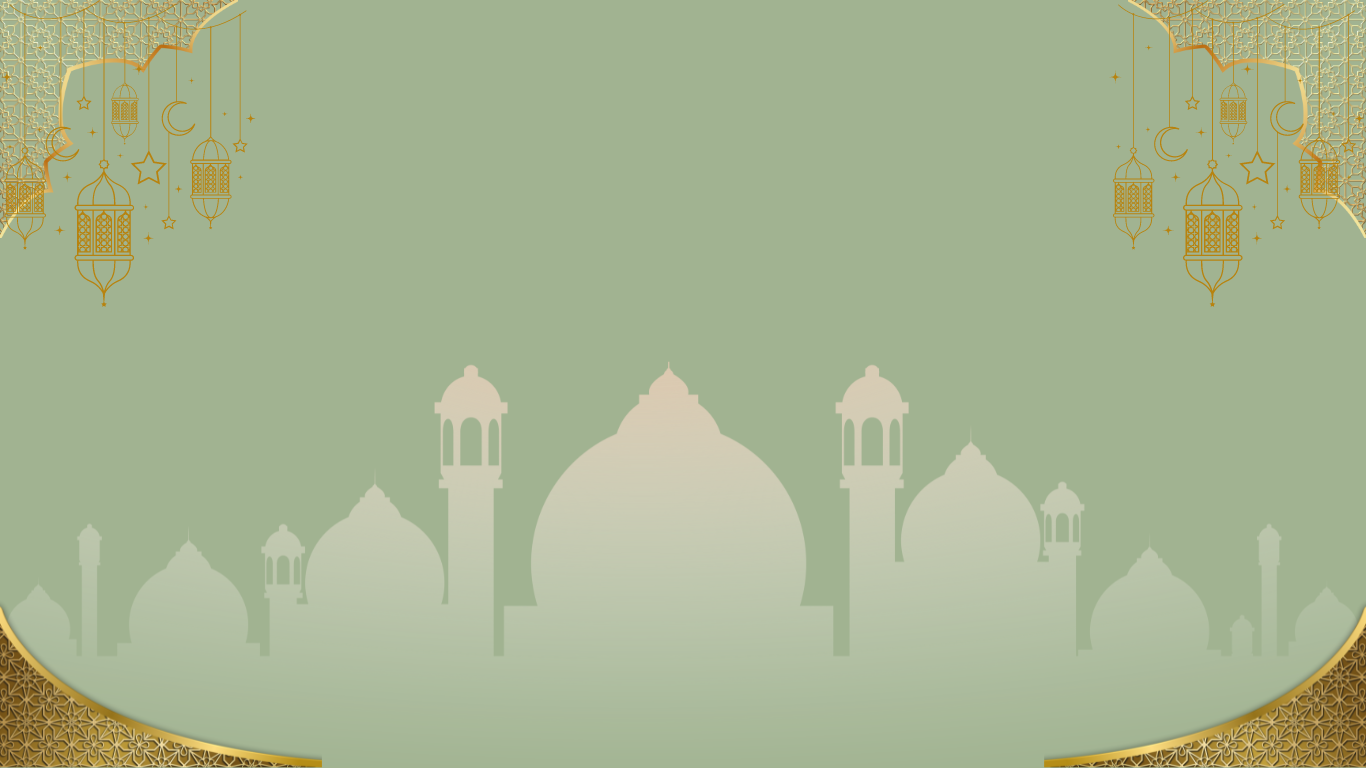
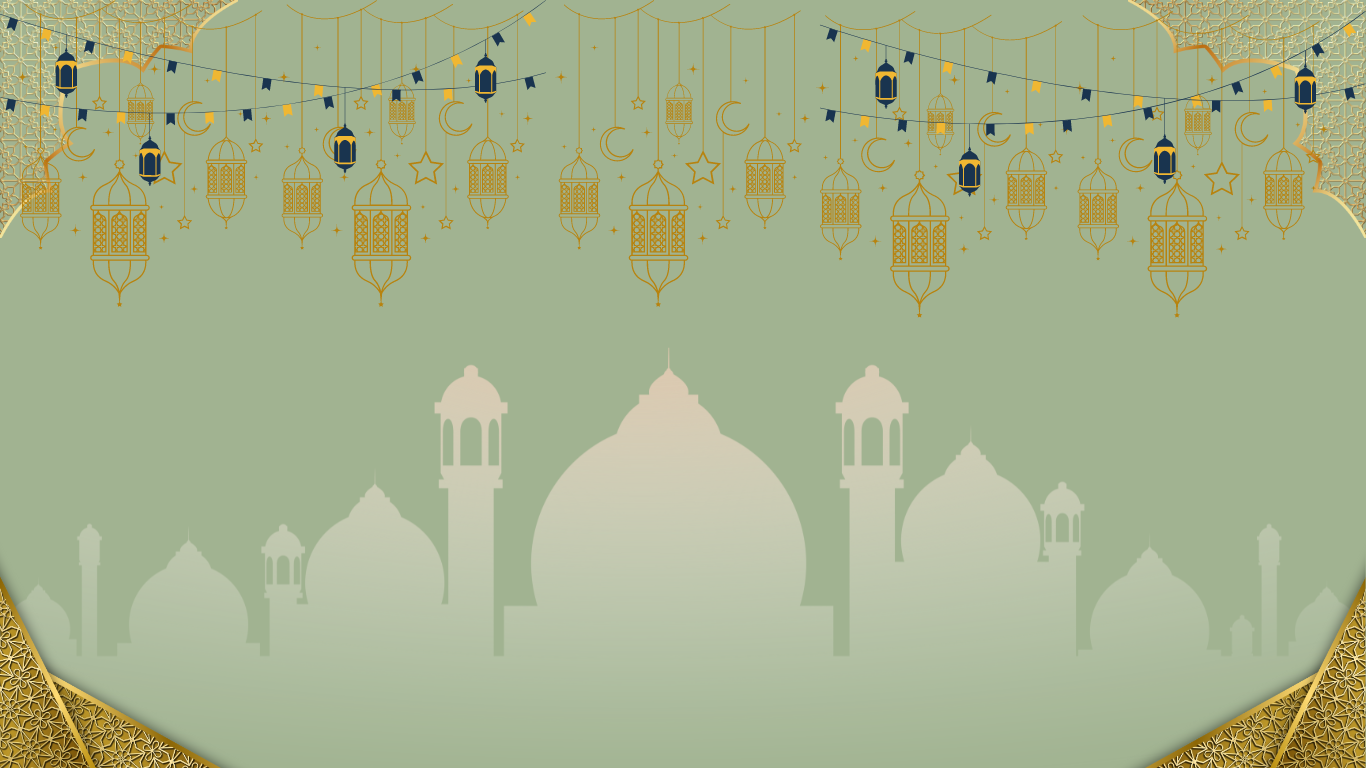
update

diff --git a/style.css b/style.css
@@ -1,11 +1,42 @@
-body {
+.container {
   background-image: url(lebaran.png);
   background-size: cover;
   background-repeat: no-repeat;
   background-position: center;
-  font-family: monospace;
-  font-size: 15px;
+  font-size: 17px;
+  position: relative;
+  font-family: BerkshireSwash-Regular, sans-serif;
 }
+
+/* pc dan hp */
+/* Gambar untuk layar PC/Laptop */
+@media only screen and (min-width: 768px) {
+  .container {
+    background-image: url("lebaran.png");
+  }
+}
+
+/* Gambar untuk layar Smartphone */
+@media only screen and (max-width: 767px) {
+  .container {
+    background-image: url("lebaranhp.png");
+  }
+}
+
+/* Teks menurun saat dibuka di handphone */
+@media screen and (max-width: 768px) {
+  .judul1 {
+    font-size: 18px; /* Ubah ukuran teks sesuai kebutuhan */
+  }
+  .judul2 {
+    font-size: 18px; /* Ubah ukuran teks sesuai kebutuhan */
+  }
+  .judul3 {
+    font-size: 18px; /* Ubah ukuran teks sesuai kebutuhan */
+  }
+}
+
+/* pc dan hp end */
 
 .isi {
   display: flex;
@@ -14,15 +45,54 @@ body {
   align-items: center;
   min-height: 100vh;
   color: rgb(0, 0, 0);
+  margin-top: auto;
 }
 
 .hehe {
-  font-size: large;
+  background-color: #5a872a;
+  padding: 7px;
+  display: inline-block;
+  border-radius: 10px;
+  -webkit-border-radius: 10px;
+  -moz-border-radius: 10px;
+  -ms-border-radius: 10px;
+  -o-border-radius: 10px;
 }
 
-.gambar {
-  width: 85%;
+/* judul */
+.judul1 {
+  display: inline-block;
+  background-color: #c09623;
+  border-radius: 10px;
+  padding: 5px;
+  -webkit-border-radius: 10px;
+  -moz-border-radius: 10px;
+  -ms-border-radius: 10px;
+  -o-border-radius: 10px;
 }
+
+.judul2 {
+  display: inline-block;
+  background-color: #c09623;
+  border-radius: 10px;
+  padding: 5px;
+  -webkit-border-radius: 10px;
+  -moz-border-radius: 10px;
+  -ms-border-radius: 10px;
+  -o-border-radius: 10px;
+}
+
+.judul3 {
+  display: inline-block;
+  background-color: #c09623;
+  border-radius: 10px;
+  padding: 5px;
+  -webkit-border-radius: 10px;
+  -moz-border-radius: 10px;
+  -ms-border-radius: 10px;
+  -o-border-radius: 10px;
+}
+/* judul end */
 
 /* countdown */
 .countdown-container {
@@ -32,4 +102,10 @@ body {
 #countdown {
   font-size: 36px;
   margin-top: 20px;
+}
+
+/* fonts */
+@font-face {
+  font-family: BerkshireSwash-Regular;
+  src: url(BerkshireSwash-Regular.ttf);
 }

diff --git a/index.html b/index.html
@@ -6,14 +6,13 @@
     <title>Lebaran Coy</title>
     <link rel="stylesheet" href="style.css" />
   </head>
-  <body>
+  <body class="container">
     <!-- isi -->
     <div class="isi">
-      <h1>BULAN RAMADHAN COY</h1>
-      <h1>Siapa Yang Tidak Sabar Lebaran Ges?</h1>
-      <h1>Tunggu, Bentar Lagi Lebaran Kok :)</h1>
+      <h1 class="judul1">Bulan Ramadhan Coy</h1>
+      <h1 class="judul2">Siapa Yang Tidak Sabar Lebaran Ges?</h1>
+      <h1 class="judul3">Tunggu, Bentar Lagi Lebaran Kok :)</h1>
     </div>
-
     <!-- isi end -->
 
     <!-- gambar -->
@@ -24,7 +23,7 @@
     <div class="countdown-container">
       <h1>Waktu Menuju Lebaran</h1>
       <div id="countdown"></div>
-      <h1 class="hehe">Maap Kalau Tidak Akurat :) hehe</h1>
+      <h4 class="hehe">Maap Kalau Tidak Akurat hehe :)</h4>
     </div>
     <!-- countdown end -->
 
